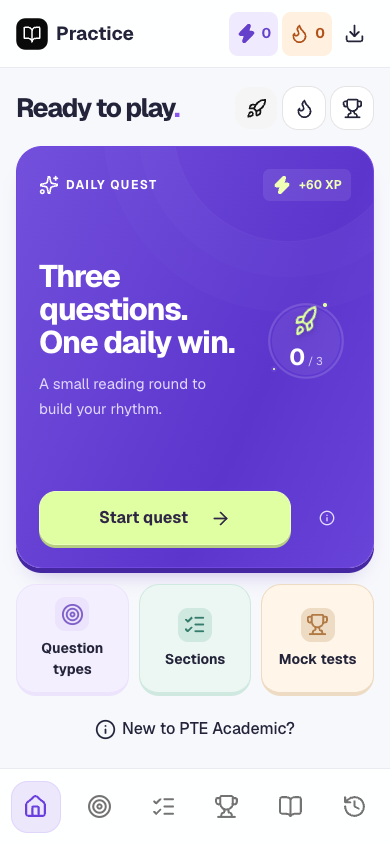
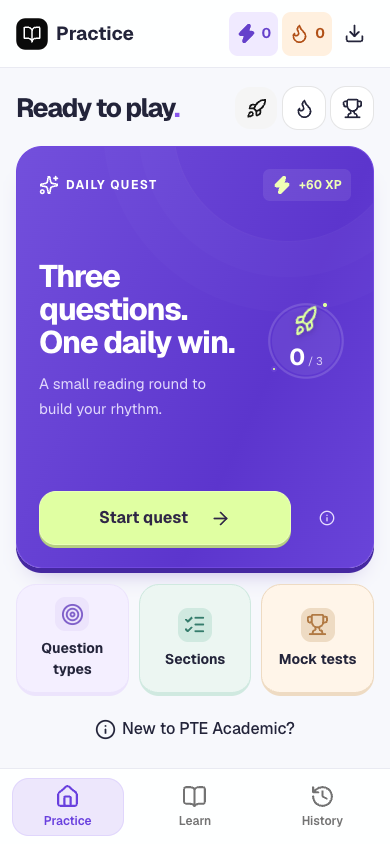
Simplify mobile footer to three labeled tabs

Changed region(s): [[0.0615, 0.9242, 0.2769, 1.0], [0.7077, 0.9242, 0.9231, 0.9858], [0.4, 0.9242, 0.6154, 0.9858]]

diff --git a/src/App.tsx b/src/App.tsx
@@ -83,12 +83,22 @@ import { Chart } from "./QuestionInput";
 import { SpeechReview } from "./speech/SpeechReview";
 import type { Transcription } from "./speech/scoring";
 const navigation = [
-  { id: "home", label: "Practice", icon: House },
+  { id: "home", label: "Practice", mobileLabel: "Practice", icon: House },
   { id: "types", label: "Question types", icon: Target },
   { id: "sections", label: "Section practice", icon: ListChecks },
   { id: "mocks", label: "Mock tests", icon: Trophy },
-  { id: "guide", label: "Learn about PTE", icon: BookOpen },
-  { id: "history", label: "My practice", icon: History },
+  {
+    id: "guide",
+    label: "Learn about PTE",
+    mobileLabel: "Learn",
+    icon: BookOpen,
+  },
+  {
+    id: "history",
+    label: "My practice",
+    mobileLabel: "History",
+    icon: History,
+  },
 ];
 const icons = { speaking: Mic, reading: BookOpen, listening: Headphones };
 const titles: Record<string, string> = {
@@ -180,31 +190,47 @@ function Nav({
   navigate: (id: string) => void;
   mobile?: boolean;
 }) {
+  const items = mobile ? navigation.filter((n) => n.mobileLabel) : navigation;
+  const current =
+    mobile && !["guide", "history"].includes(active) ? "home" : active;
   return (
     <nav
       aria-label={mobile ? "Mobile navigation" : "Main navigation"}
       className={mobile ? "mobile-nav" : "desktop-nav"}
     >
-      {navigation.map((n) => (
-        <Tooltip key={n.id}>
-          <TooltipTrigger
-            render={
-              <a
-                href={`#${n.id}`}
-                aria-label={n.label}
-                aria-current={active === n.id ? "page" : undefined}
-                onClick={() => navigate(n.id)}
-                className="nav-icon"
-              />
-            }
+      {items.map((n) =>
+        mobile ? (
+          <a
+            key={n.id}
+            href={`#${n.id}`}
+            aria-current={current === n.id ? "page" : undefined}
+            onClick={() => navigate(n.id)}
+            className="nav-icon"
           >
-            <n.icon className="size-[19px]" />
-          </TooltipTrigger>
-          <TooltipContent side={mobile ? "top" : "right"}>
-            {n.label}
-          </TooltipContent>
-        </Tooltip>
-      ))}
+            <n.icon className="size-[22px]" aria-hidden="true" />
+            <span>{n.mobileLabel}</span>
+          </a>
+        ) : (
+          <Tooltip key={n.id}>
+            <TooltipTrigger
+              render={
+                <a
+                  href={`#${n.id}`}
+                  aria-label={n.label}
+                  aria-current={active === n.id ? "page" : undefined}
+                  onClick={() => navigate(n.id)}
+                  className="nav-icon"
+                />
+              }
+            >
+              <n.icon className="size-[19px]" />
+            </TooltipTrigger>
+            <TooltipContent side="right">
+              {n.label}
+            </TooltipContent>
+          </Tooltip>
+        ),
+      )}
     </nav>
   );
 }
@@ -738,7 +764,14 @@ export default function App() {
             </div>
           </main>
         </div>
-        <Nav active={active} navigate={navigate} mobile />
+        <Nav
+          active={active}
+          navigate={(to) => {
+            if (to === "home") setHubView("play");
+            navigate(to);
+          }}
+          mobile
+        />
         <Dialog open={clearConfirm} onOpenChange={setClearConfirm}>
           <DialogContent showCloseButton={false}>
             <DialogTitle>Clear your practice history?</DialogTitle>

diff --git a/src/screens.css b/src/screens.css
@@ -664,6 +664,16 @@
     height: calc(76px + env(safe-area-inset-bottom));
     padding: 6px 4px max(6px, env(safe-area-inset-bottom));
   }
+  .mobile-nav .nav-icon {
+    flex: 1;
+    flex-direction: column;
+    gap: 4px;
+    max-width: 112px;
+    height: 58px;
+    font-size: 12px;
+    line-height: 16px;
+    font-weight: 600;
+  }
   .nav-icon {
     width: 50px;
     height: 52px;

diff --git a/AGENTS.md b/AGENTS.md
@@ -4,7 +4,7 @@ An independent, beginner-friendly PTE Academic practice PWA. All learner-facing 
 
 ## Architecture
 
-- Keep the learning workspace minimal: desktop icon sidebar and header, mobile icon footer and header. Use accessible names and tooltips for icons; keep beginner guidance in animated collapsibles/accordions, success feedback in Sonner, and honor reduced motion. The operator subsequently requested a more playful, gamified design: allow purposeful violet/lime game cards, XP, streaks, badges and finite celebration motion. The operator then requested larger game UI without a scrolling dashboard: use a viewport-sized play screen, large controls, button-selected progress/collection screens and paged catalogues, guidance, history and review. Measure reading pages against the actual font/panel; never clip text to force a fit. Preserve a scrolling accessibility escape for extreme zoom or very short windows. Keep the timed runner focused and avoid marketing heroes or repeated explanatory copy.
+- Keep the learning workspace minimal: desktop icon sidebar and header, mobile header and a three-tab footer with text below icons: Practice, Learn, History. Keep question types, sections and mocks within Practice, and utilities in the header. Use accessible names and tooltips for icons; keep beginner guidance in animated collapsibles/accordions, success feedback in Sonner, and honor reduced motion. The operator subsequently requested a more playful, gamified design: allow purposeful violet/lime game cards, XP, streaks, badges and finite celebration motion. The operator then requested larger game UI without a scrolling dashboard: use a viewport-sized play screen, large controls, button-selected progress/collection screens and paged catalogues, guidance, history and review. Measure reading pages against the actual font/panel; never clip text to force a fit. Preserve a scrolling accessibility escape for extreme zoom or very short windows. Keep the timed runner focused and avoid marketing heroes or repeated explanatory copy.
 - React + TypeScript + Vite; use the installed lockfile and `npm ci` (Node 22.12+).
 - Tailwind v4 and shadcn's default Nova/Base UI/neutral preset. Preserve generated theme tokens in `src/style.css` and configuration in `components.json`. Learning pages use these defaults; the exam surface has isolated `.exam` styles for test conventions.
 - `content/*.json` is the source of truth, imported into the static build. `src/content.ts` owns schemas and feedback logic. Read `content/AGENTS.md` before editing content.
